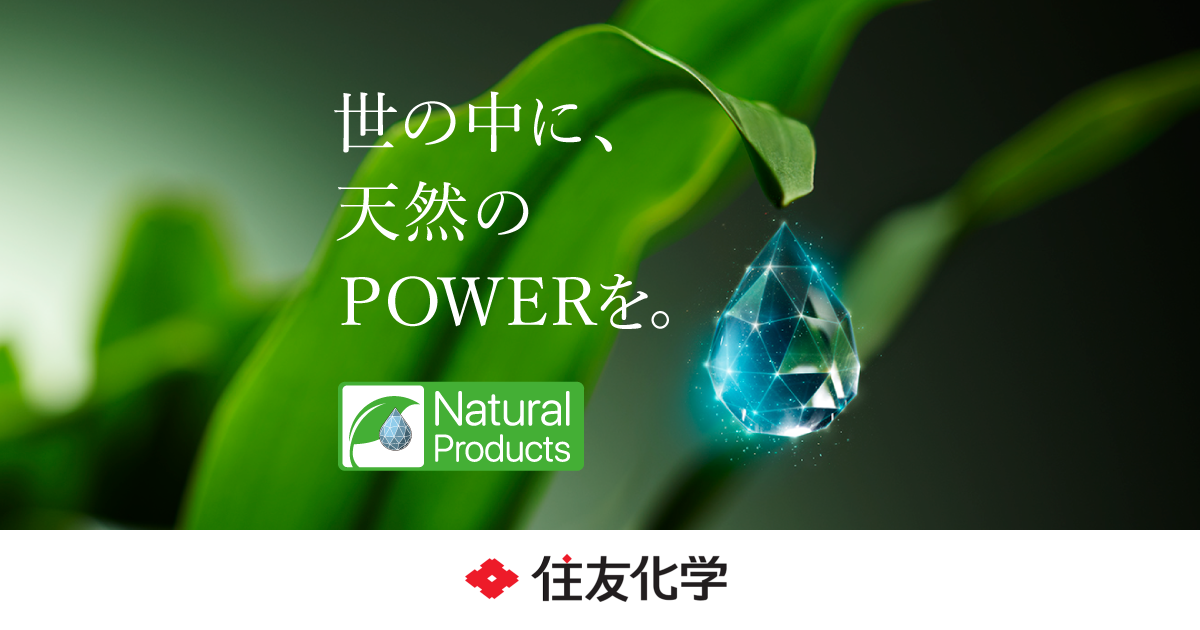
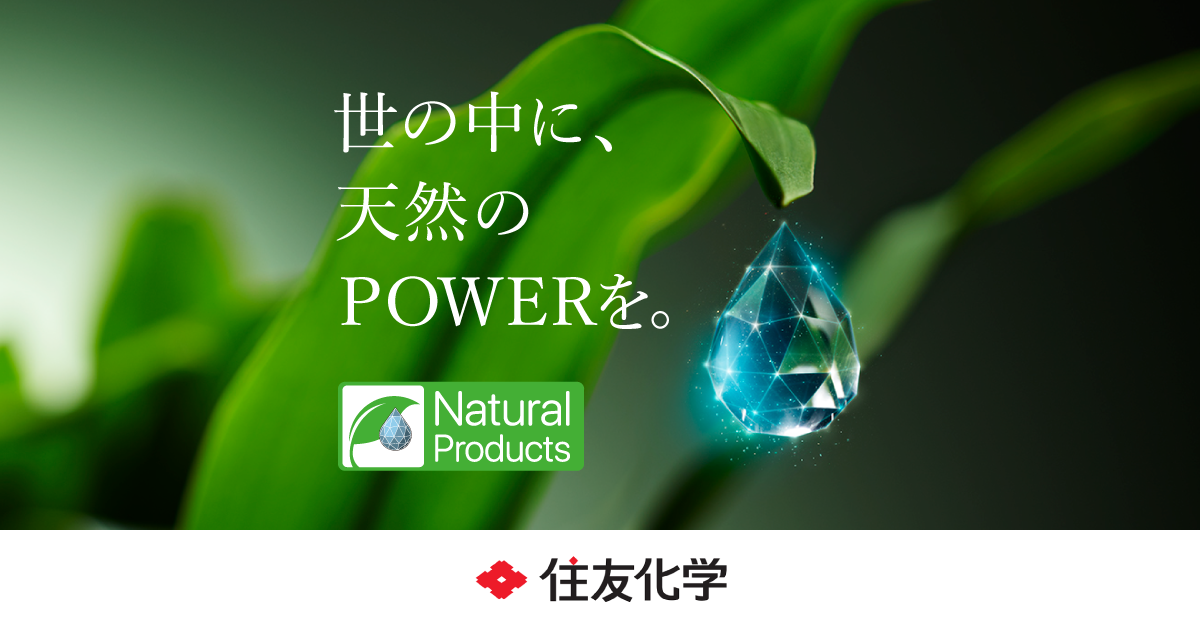
fix: og・twitter card  / header ロゴサイズ調整

Changed region(s): [[0.37, 0.8746, 0.6167, 0.9651]]

diff --git a/dest/sc-natural-products/lp/index.html b/dest/sc-natural-products/lp/index.html
@@ -59,7 +59,7 @@
     <div class="un_header_inner">
       <h1 class="bl_header_logo un_header_logo_sumitomo_chemical bl_imgWrapper"><a href="https://www.sumitomo-chem.co.jp/" target="_blank" rel="noopener">
           <picture>
-            <source srcset="./assets/img/pic_logo_sumitomo_chemical_lg.png" width="168" height="31" media="(min-width: 768px)"><img src="./assets/img/pic_logo_sumitomo_chemical_sm.png" width="109" height="27" alt="住友化学株式会社">
+            <source srcset="./assets/img/pic_logo_sumitomo_chemical_lg.png" width="141" height="27" media="(min-width: 768px)"><img src="./assets/img/pic_logo_sumitomo_chemical_sm.png" width="109" height="27" alt="住友化学株式会社">
           </picture>
         </a></h1>
       <p class="bl_header_logo un_header_logo_natural_products bl_imgWrapper"><a href="./">

diff --git a/dest/sc-natural-products/lp/assets/css/top.css b/dest/sc-natural-products/lp/assets/css/top.css
@@ -87,8 +87,8 @@
 }
 @media (min-width: 768px) {
   .un_header_logo_sumitomo_chemical {
-    margin-top: 0;
-    width: min(12.298682284vw, 168px);
+    margin-top: max(-0.1464128843vw, -2px);
+    width: min(10.3221083455vw, 141px);
   }
 }
 

diff --git a/src/scss/sc-natural-products/lp/assets/css/top.scss b/src/scss/sc-natural-products/lp/assets/css/top.scss
@@ -93,8 +93,8 @@ $path: "../img/";
   width: vw(218);
 
   @include breakpoint-up(md) {
-    margin-top: 0;
-    width: liq(168);
+    margin-top: liq(-2);
+    width: liq(141);
   }
 }
 
